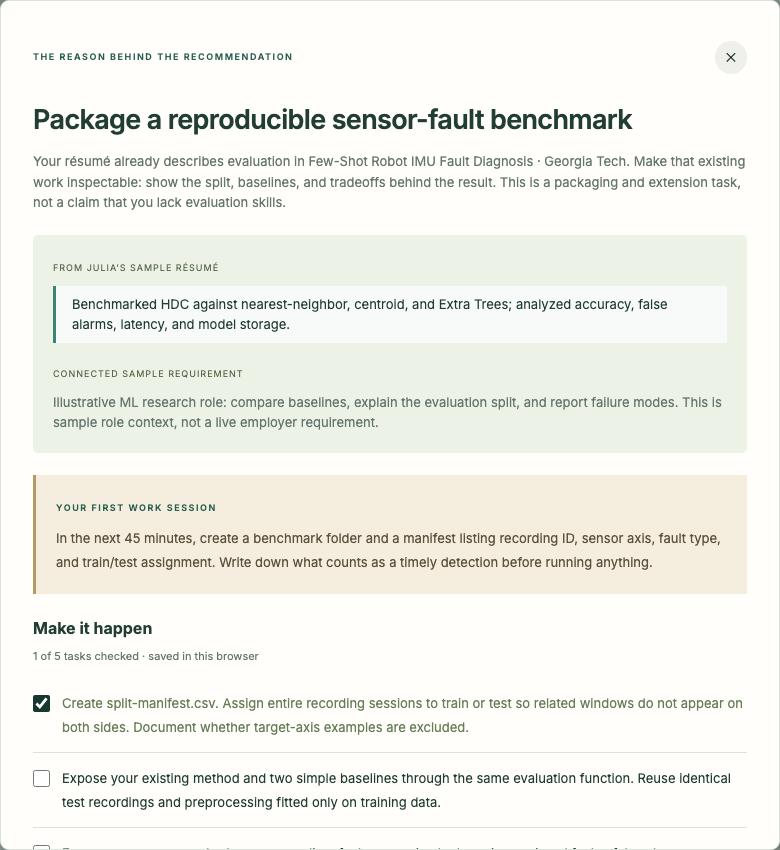
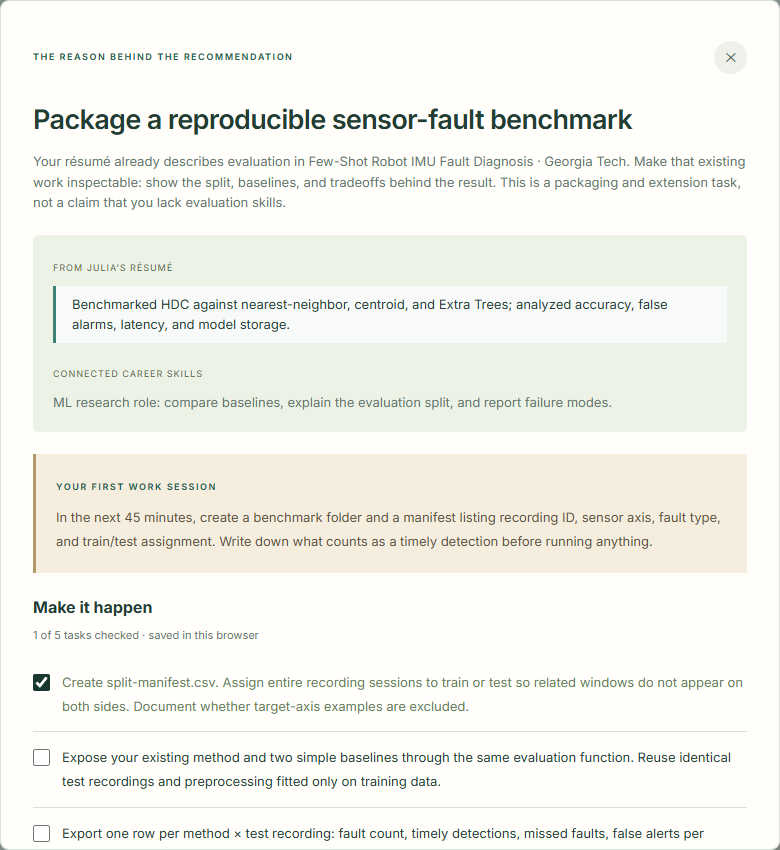
Verify workspace flow and refresh presentation screenshots

diff --git a/tests/judges-demo/demo.spec.ts b/tests/judges-demo/demo.spec.ts
@@ -12,9 +12,7 @@ test("judge walkthrough stays local, traces evidence, persists progress, and con
   await expect(
     page.getByRole("heading", { name: "Julia Thomas", exact: true }),
   ).toBeVisible();
-  await expect(
-    page.getByText("Selected résumé evidence. Contact details omitted."),
-  ).toBeVisible();
+  await expect(page.getByText("Your experience, in focus.")).toBeVisible();
   expect(await page.locator(".jd-paper").innerText()).not.toMatch(
     /[A-Z0-9._%+-]+@[A-Z0-9.-]+\.[A-Z]{2,}|\b\d{3}[-. ]\d{3}[-. ]\d{4}\b/i,
   );
@@ -42,7 +40,7 @@ test("judge walkthrough stays local, traces evidence, persists progress, and con
     .click();
   const dialog = page.getByRole("dialog");
   await expect(
-    dialog.getByText("Illustrative ML research role:", { exact: false }),
+    dialog.getByText("ML research role:", { exact: false }),
   ).toBeVisible();
   await expect(
     dialog.getByRole("heading", { name: "Make it happen" }),

diff --git a/docs/judges-demo.md b/docs/judges-demo.md
@@ -10,7 +10,7 @@ are curated examples, not live Gemini output.
 ## Run and present
 
 Use Node 24, install with `npm ci --ignore-scripts`, run `npm run dev`, and open
-`http://127.0.0.1:3000/demo`. **Try the demo** on the homepage also opens this route.
+`http://127.0.0.1:3000/demo`. **Open my workspace** on the homepage also opens this route.
 
 A three-minute walkthrough:
 
@@ -27,8 +27,14 @@ A three-minute walkthrough:
    failure scenarios. Counts and schedules are proposed scopes, not past results.
 4. **Saved steps:** save up to three milestones, mark progress, refresh, and download
    a text plan containing tasks, deliverables, criteria, and reference links.
-5. **Reset demo:** confirm a reset before the next judge. It clears the current
-   profile’s choices under `employher-judges-demo-v2-<profile-id>` in browser storage.
+5. **Connect:** browse fictional peers for the selected career field, with silhouette
+   avatars, shared interests, and reserved example.com contact addresses.
+
+Auth0 sign-in is optional and displays the authenticated user. Login uses the
+configured APP_BASE_URL origin so its transaction cookie reaches the callback.
+All four workspace sections remain accessible when signed out. Reset controls
+and demo labels are removed from the presentation; persisted choices still live
+under `employher-judges-demo-v2-<profile-id>` in browser storage.
 
 Role cards provide search queries and eligibility questions, not live openings.
 The career tasks include a three-target worksheet, an interview outline, and a
@@ -65,7 +71,7 @@ the selected Julia evidence used by the default demo on September 19, 2026. Unse
 Run `npm run test:demo`, or `npm run test:demo -- --ui`. Playwright scenarios in
 `tests/judges-demo/` use port 3120 and Webpack. They cover the walkthrough, evidence
 and work-plan dialogs, task persistence, detailed plan downloads, field switching,
-the three-step limit, completion, reset/cancel, keyboard access, mobile layout,
+the three-step limit, completion, peer field switching, keyboard access, mobile layout,
 unavailable storage, and the homepage entry point. The walkthrough asserts no
 `/api/` requests. Public screenshots use the approved public demo profile only and are written
 to `docs/screenshots/judges-demo-*.png`.
